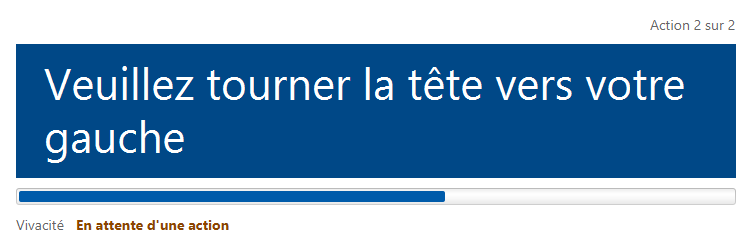
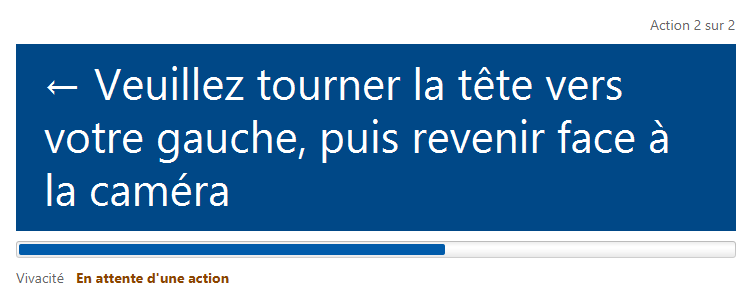
docs(messages): show the arrow and the return to the camera of a turn
Texts of registration-client#16 in English, French and Arabic, and the
renders of the turn instruction rebuilt with docs/ui/render_pane.ps1.

Changed region(s): [[0.0, 0.224, 0.9787, 0.952], [0.0, 0.056, 0.9787, 0.196]]

diff --git a/docs/messages.md b/docs/messages.md
@@ -22,8 +22,8 @@ Files `messages_en.properties`, `messages_fr.properties`, `messages_ar.propertie
 | `LIVENESS_INSTRUCTION_SOON` | An instruction will appear in a moment. | Une consigne va s'afficher dans un instant. | Under the band, hold-still phase |
 | `LIVENESS_CHALLENGE_BLINK` | Please blink | Veuillez cligner des yeux | Challenge |
 | `LIVENESS_CHALLENGE_SMILE` | Please smile | Veuillez sourire | Challenge |
-| `LIVENESS_CHALLENGE_TURN_LEFT` | Please turn your head to your left | Veuillez tourner la tête vers votre gauche | Challenge |
-| `LIVENESS_CHALLENGE_TURN_RIGHT` | Please turn your head to your right | Veuillez tourner la tête vers votre droite | Challenge |
+| `LIVENESS_CHALLENGE_TURN_LEFT` | ← Please turn your head to your left, then look back at the camera | ← Veuillez tourner la tête vers votre gauche, puis revenir face à la caméra | Challenge |
+| `LIVENESS_CHALLENGE_TURN_RIGHT` | Please turn your head to your right, then look back at the camera → | Veuillez tourner la tête vers votre droite, puis revenir face à la caméra → | Challenge |
 | `LIVENESS_KEEP_GOING` | Please continue | Veuillez continuer | Action not detected yet |
 | `LIVENESS_ACTION_DETECTED` | Action detected | Action détectée | Action detected |
 | `LIVENESS_SUCCESS` | Face captured successfully | Visage capturé avec succès | Captured image accepted |
@@ -83,8 +83,8 @@ Text of `messages_ar.properties` and `labels_ar.properties`, for reading. Head t
 | `LIVENESS_INSTRUCTION_SOON` | ستظهر تعليمات بعد لحظة. |
 | `LIVENESS_CHALLENGE_BLINK` | يُرجى رمش العينين |
 | `LIVENESS_CHALLENGE_SMILE` | يُرجى الابتسام |
-| `LIVENESS_CHALLENGE_TURN_LEFT` | يُرجى إدارة رأسك نحو يسارك |
-| `LIVENESS_CHALLENGE_TURN_RIGHT` | يُرجى إدارة رأسك نحو يمينك |
+| `LIVENESS_CHALLENGE_TURN_LEFT` | يُرجى إدارة رأسك نحو يسارك، ثم انظر إلى الكاميرا مجددًا ← |
+| `LIVENESS_CHALLENGE_TURN_RIGHT` | → يُرجى إدارة رأسك نحو يمينك، ثم انظر إلى الكاميرا مجددًا |
 | `LIVENESS_KEEP_GOING` | يُرجى المتابعة |
 | `LIVENESS_ACTION_DETECTED` | تم رصد الحركة |
 | `LIVENESS_SUCCESS` | تم التقاط الوجه بنجاح |
@@ -136,8 +136,8 @@ LIVENESS_HOLD_STILL=Hold still
 LIVENESS_INSTRUCTION_SOON=An instruction will appear in a moment.
 LIVENESS_CHALLENGE_BLINK=Please blink
 LIVENESS_CHALLENGE_SMILE=Please smile
-LIVENESS_CHALLENGE_TURN_LEFT=Please turn your head to your left
-LIVENESS_CHALLENGE_TURN_RIGHT=Please turn your head to your right
+LIVENESS_CHALLENGE_TURN_LEFT=\u2190 Please turn your head to your left, then look back at the camera
+LIVENESS_CHALLENGE_TURN_RIGHT=Please turn your head to your right, then look back at the camera \u2192
 LIVENESS_KEEP_GOING=Please continue
 LIVENESS_ACTION_DETECTED=Action detected
 LIVENESS_SUCCESS=Face captured successfully
@@ -174,8 +174,8 @@ LIVENESS_HOLD_STILL=Ne bougez plus
 LIVENESS_INSTRUCTION_SOON=Une consigne va s'afficher dans un instant.
 LIVENESS_CHALLENGE_BLINK=Veuillez cligner des yeux
 LIVENESS_CHALLENGE_SMILE=Veuillez sourire
-LIVENESS_CHALLENGE_TURN_LEFT=Veuillez tourner la t\u00eate vers votre gauche
-LIVENESS_CHALLENGE_TURN_RIGHT=Veuillez tourner la t\u00eate vers votre droite
+LIVENESS_CHALLENGE_TURN_LEFT=\u2190 Veuillez tourner la t\u00eate vers votre gauche, puis revenir face \u00e0 la cam\u00e9ra
+LIVENESS_CHALLENGE_TURN_RIGHT=Veuillez tourner la t\u00eate vers votre droite, puis revenir face \u00e0 la cam\u00e9ra \u2192
 LIVENESS_KEEP_GOING=Veuillez continuer
 LIVENESS_ACTION_DETECTED=Action d\u00e9tect\u00e9e
 LIVENESS_SUCCESS=Visage captur\u00e9 avec succ\u00e8s
@@ -212,8 +212,8 @@ LIVENESS_HOLD_STILL=\u0644\u0627 \u062A\u062A\u062D\u0631\u0643
 LIVENESS_INSTRUCTION_SOON=\u0633\u062A\u0638\u0647\u0631 \u062A\u0639\u0644\u064A\u0645\u0627\u062A \u0628\u0639\u062F \u0644\u062D\u0638\u0629.
 LIVENESS_CHALLENGE_BLINK=\u064A\u064F\u0631\u062C\u0649 \u0631\u0645\u0634 \u0627\u0644\u0639\u064A\u0646\u064A\u0646
 LIVENESS_CHALLENGE_SMILE=\u064A\u064F\u0631\u062C\u0649 \u0627\u0644\u0627\u0628\u062A\u0633\u0627\u0645
-LIVENESS_CHALLENGE_TURN_LEFT=\u064A\u064F\u0631\u062C\u0649 \u0625\u062F\u0627\u0631\u0629 \u0631\u0623\u0633\u0643 \u0646\u062D\u0648 \u064A\u0633\u0627\u0631\u0643
-LIVENESS_CHALLENGE_TURN_RIGHT=\u064A\u064F\u0631\u062C\u0649 \u0625\u062F\u0627\u0631\u0629 \u0631\u0623\u0633\u0643 \u0646\u062D\u0648 \u064A\u0645\u064A\u0646\u0643
+LIVENESS_CHALLENGE_TURN_LEFT=\u064A\u064F\u0631\u062C\u0649 \u0625\u062F\u0627\u0631\u0629 \u0631\u0623\u0633\u0643 \u0646\u062D\u0648 \u064A\u0633\u0627\u0631\u0643\u060C \u062B\u0645 \u0627\u0646\u0638\u0631 \u0625\u0644\u0649 \u0627\u0644\u0643\u0627\u0645\u064A\u0631\u0627 \u0645\u062C\u062F\u062F\u064B\u0627 \u2190
+LIVENESS_CHALLENGE_TURN_RIGHT=\u2192 \u064A\u064F\u0631\u062C\u0649 \u0625\u062F\u0627\u0631\u0629 \u0631\u0623\u0633\u0643 \u0646\u062D\u0648 \u064A\u0645\u064A\u0646\u0643\u060C \u062B\u0645 \u0627\u0646\u0638\u0631 \u0625\u0644\u0649 \u0627\u0644\u0643\u0627\u0645\u064A\u0631\u0627 \u0645\u062C\u062F\u062F\u064B\u0627
 LIVENESS_KEEP_GOING=\u064A\u064F\u0631\u062C\u0649 \u0627\u0644\u0645\u062A\u0627\u0628\u0639\u0629
 LIVENESS_ACTION_DETECTED=\u062A\u0645 \u0631\u0635\u062F \u0627\u0644\u062D\u0631\u0643\u0629
 LIVENESS_SUCCESS=\u062A\u0645 \u0627\u0644\u062A\u0642\u0627\u0637 \u0627\u0644\u0648\u062C\u0647 \u0628\u0646\u062C\u0627\u062D
